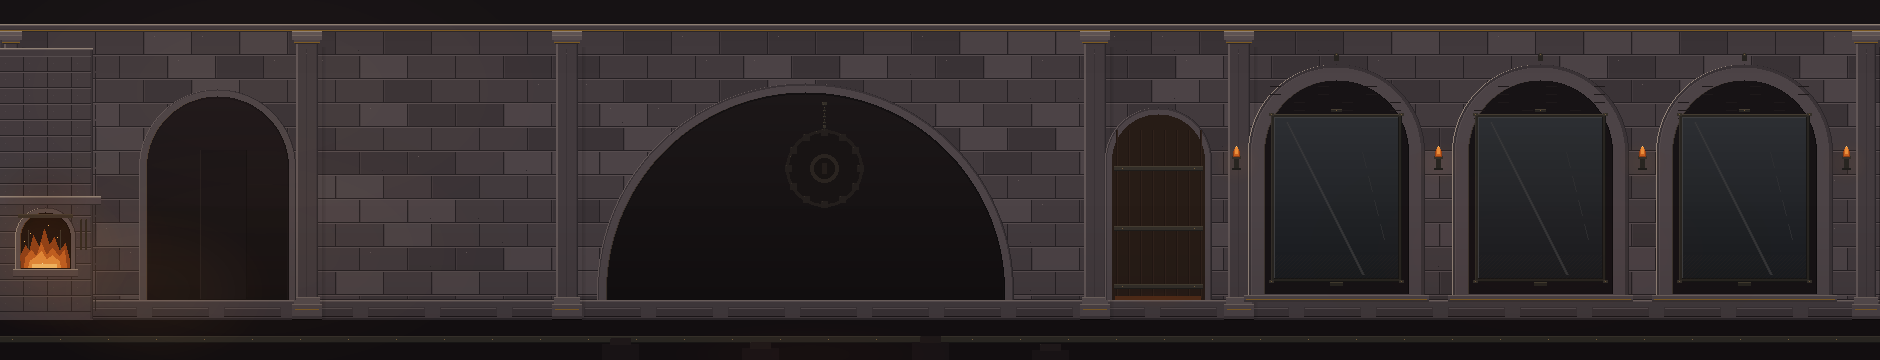
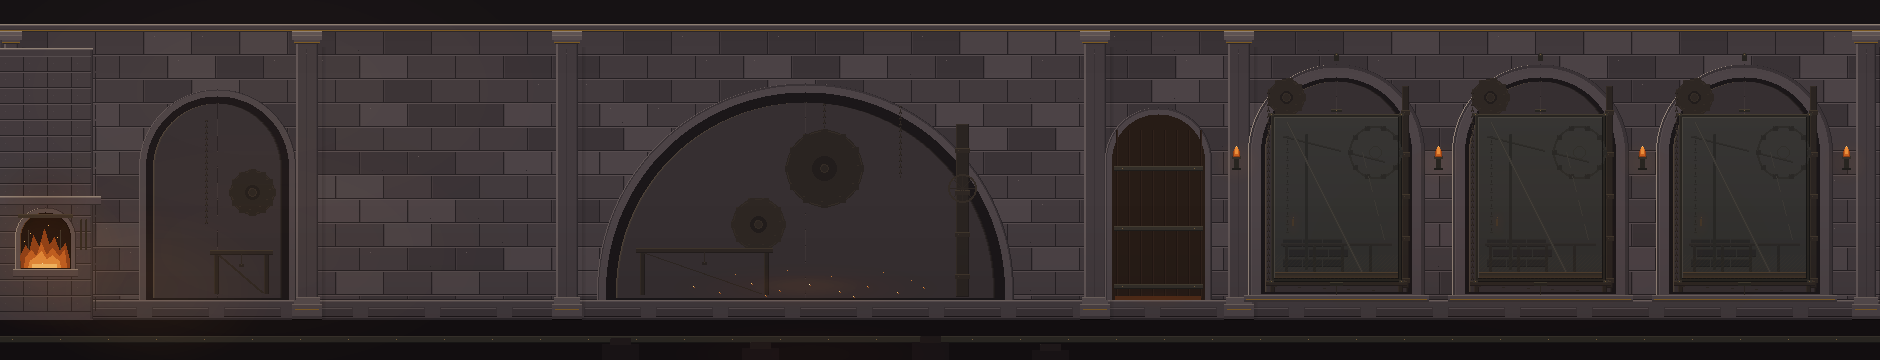
镜厅拱洞补内层砖/齿轮剪影/余烬，近黑比例降到 1-5%

diff --git a/星核旅人/StarCoreTraveler/dlc/rift_workshop/tools/gen_interior_assets.py b/星核旅人/StarCoreTraveler/dlc/rift_workshop/tools/gen_interior_assets.py
@@ -38,6 +38,8 @@ import random
 
 from PIL import Image, ImageDraw
 
+TAU = math.tau
+
 HERE = os.path.dirname(os.path.abspath(__file__))
 DLC = os.path.dirname(HERE)
 OUT = os.path.join(DLC, "assets", "interior")
@@ -102,11 +104,11 @@ FIRE_MID = (234, 142, 58, 255)
 FIRE_LIGHT = (255, 196, 108, 255)
 FIRE_HOT = (255, 235, 180, 255)
 
-GLASS_TOP = (45, 47, 51, 255)
-GLASS_MID = (35, 37, 41, 255)
-GLASS_LOW = (25, 27, 31, 255)
-GLASS_HI = (62, 62, 64, 255)
-GLASS_WARM = (72, 58, 46, 255)
+GLASS_TOP = (55, 53, 51, 255)
+GLASS_MID = (51, 50, 49, 255)
+GLASS_LOW = (48, 47, 46, 255)
+GLASS_HI = (72, 68, 62, 255)
+GLASS_WARM = (84, 66, 50, 255)
 
 # Recessed second-layer masonry.  One step darker than the outer wall, but the
 # 32x16 coursing stays readable; the dark gap around it is depth, not a hole.
@@ -510,61 +512,75 @@ def mirror_reflections(img: Image.Image, px0: int, py0: int, px1: int, py1: int)
     right, bottom = px1 - 4, py1 - 4
     if right - left < 10 or bottom - top < 10:
         return
-    # Reflected lower brick wall: 24x12, 1 px seams, low contrast.
-    for y in range(top + 54, bottom):
-        rel = y - (top + 54)
-        row = rel // 12
-        offset = 0 if row % 2 == 0 else 12
-        for x in range(left, right + 1):
-            if rel % 12 == 0:
-                px(draw, x, y, (46, 48, 51, 255))
-            elif rel % 12 == 11:
-                px(draw, x, y, (34, 36, 39, 255))
-            elif (x - left + offset) % 24 == 0:
-                px(draw, x, y, (34, 36, 39, 255))
-            else:
-                tone = (39, 41, 44, 255) if (row + (x // 24)) % 2 == 0 else (42, 44, 47, 255)
-                px(draw, x, y, tone)
+    # Broken patch of reflected masonry in the lower-left corner; deliberately
+    # partial, so it reads as a reflection rather than window muntins.
+    for row in range(3):
+        y = bottom - 38 + row * 10
+        for col in range(3):
+            x0 = left + 8 + col * 20 + (row % 2) * 6
+            x1 = min(right - 6, x0 + 18)
+            if x1 <= x0:
+                continue
+            rect(draw, x0, y, x1, y + 7, (40, 39, 39, 255))
+            rect(draw, x0, y, x1, y, (46, 44, 42, 255))
+            rect(draw, x0, y + 7, x1, y + 7, (34, 33, 33, 255))
+            px(draw, x0 + 4, y + 3, (43, 41, 40, 255))
+    # Reflected diagonal roof brace, broken at a joint: reads as a mirror
+    # reflection, not as a window transom.
+    for index in range(min(right - left - 20, 126)):
+        x = left + 8 + index
+        y = top + 18 + index // 4
+        if y >= bottom - 12:
+            break
+        if 58 <= index <= 64:
+            continue
+        rect(draw, x, y, x, y + 1, (43, 41, 39, 255))
+        px(draw, x, y, (48, 46, 43, 255))
     # Reflected broken gear at the upper right.
-    gcx, gcy, gr = right - 18, top + 30, 20
+    gcx, gcy, gr = right - 22, top + 34, 26
     draw.ellipse((gcx - gr, gcy - gr, gcx + gr, gcy + gr),
-                 outline=(43, 45, 48, 255), width=2)
-    for index in range(8):
-        angle = TAU * float(index) / 8.0
+                 outline=(46, 44, 41, 255), width=2)
+    for index in range(10):
+        angle = TAU * float(index) / 10.0
         tx = gcx + int(round(math.cos(angle) * (gr - 1)))
         ty = gcy + int(round(math.sin(angle) * (gr - 1)))
-        rect(draw, tx - 2, ty - 2, tx + 2, ty + 2, (41, 43, 46, 255))
-        px(draw, tx - 1, ty - 2, (48, 50, 52, 255))
-    draw.ellipse((gcx - 5, gcy - 5, gcx + 5, gcy + 5),
-                 outline=(46, 48, 51, 255), width=1)
+        rect(draw, tx - 2, ty - 2, tx + 2, ty + 2, (42, 40, 38, 255))
+        px(draw, tx - 1, ty - 2, (50, 48, 44, 255))
+    draw.ellipse((gcx - 6, gcy - 6, gcx + 6, gcy + 6),
+                 outline=(49, 47, 43, 255), width=1)
     # Reflected chain on the left margin of the glass.
     cx = left + 12
     for y in range(top + 18, min(bottom - 20, top + 116), 4):
         if (y // 4) % 2 == 0:
-            rect(draw, cx - 1, y, cx + 1, y, (43, 45, 48, 255))
+            rect(draw, cx - 1, y, cx + 1, y, (44, 42, 40, 255))
         else:
-            rect(draw, cx, y, cx, y + 2, (39, 41, 44, 255))
+            rect(draw, cx, y, cx, y + 2, (41, 39, 37, 255))
     # Reflected wood rack / pipe across the lower glass.
     rack_y = bottom - 34
-    rect(draw, left + 6, rack_y, right - 6, rack_y + 2, (42, 44, 47, 255))
-    rect(draw, left + 6, rack_y, right - 6, rack_y, (47, 49, 52, 255))
+    rect(draw, left + 6, rack_y, right - 6, rack_y + 2, (43, 41, 39, 255))
+    rect(draw, left + 6, rack_y, right - 6, rack_y, (48, 46, 43, 255))
     for bx in range(left + 10, right - 8, 28):
-        rect(draw, bx, rack_y + 2, bx + 2, bottom - 6, (39, 41, 44, 255))
-        px(draw, bx, rack_y + 2, (46, 48, 51, 255))
+        rect(draw, bx, rack_y + 2, bx + 2, bottom - 6, (41, 39, 37, 255))
+        px(draw, bx, rack_y + 2, (47, 45, 42, 255))
     # A faint vertical post reflection near the left third.
-    rect(draw, left + 30, top + 16, left + 32, bottom - 8, (36, 38, 41, 255))
-    px(draw, left + 30, top + 16, (44, 46, 49, 255))
+    rect(draw, left + 30, top + 16, left + 32, bottom - 8, (41, 40, 38, 255))
+    px(draw, left + 30, top + 16, (47, 45, 42, 255))
+    # A tiny reflected sconce flame in the lower-left, low alpha.
+    glow(img, left + 18, bottom - 54, 10, 17, FIRE_DARK, 12)
+    rect(draw, left + 17, bottom - 58, left + 18, bottom - 52, (69, 55, 41, 255))
+    px(draw, left + 18, bottom - 60, (84, 66, 46, 255))
 
 
 def ember_cluster(img: Image.Image, cx: int, cy: int, rx: int, ry: int) -> None:
     """Low-alpha furnace embers with a handful of 1 px hot points."""
-    glow(img, cx, cy, rx, ry, FIRE_DARK, 14)
-    glow(img, cx, cy - 3, max(8, rx // 2), max(6, ry // 2), FIRE_MID, 9)
+    glow(img, cx, cy, rx, ry, FIRE_DARK, 19)
+    glow(img, cx, cy - 3, max(8, rx // 2), max(6, ry // 2), FIRE_MID, 11)
     draw = ImageDraw.Draw(img)
     embers = (
         (-112, -2, FIRE_LIGHT), (-86, 4, FIRE_MID), (-54, -5, FIRE_LIGHT),
         (-26, 2, FIRE_MID), (4, -4, FIRE_HOT), (34, 3, FIRE_LIGHT),
         (62, -2, FIRE_MID), (92, 4, FIRE_LIGHT), (118, -1, FIRE_MID),
+        (-40, 7, FIRE_MID), (48, 8, FIRE_LIGHT),
     )
     for dx, dy, color in embers:
         px(draw, cx + dx, cy + dy, color)
@@ -927,7 +943,7 @@ def mirror_bay(img: Image.Image, x0: int, y0: int, x1: int, y1: int) -> None:
     arch_edges(draw, x0 + 3, y0 + 3, x1 - 3, y1, STONE_3, STONE_0)
     inner_brick_arch(img, x0 + 13, y0 + 13, x1 - 13, y1 - 6, inset=4)
     # Physical silhouettes sit behind the plate; only the margins stay visible.
-    dark_gear(img, x0 + 38, y0 + 32, 20, body=SIL_1, edge=SIL_2, hole=SIL_DARK, teeth=9)
+    dark_gear(img, x0 + 38, y0 + 33, 18, body=SIL_1, edge=SIL_2, hole=SIL_DARK, teeth=9)
     dark_pipe(img, x1 - 22, y0 + 22, x1 - 16, y1 - 12)
     dark_chain(img, x0 + 20, y0 + 28, y1 - 16)
     dark_rack(img, x0 + 18, y1 - 18, x1 - 18, y1 - 8)
@@ -955,8 +971,8 @@ def mirror_bay(img: Image.Image, x0: int, y0: int, x1: int, y1: int) -> None:
     # large diagonal in the plate, so the surface reads as glass.
     for y in range(py0 + 8, py1 - 6):
         sx = px0 + 12 + (y - py0) // 2
-        for dx, color in ((-1, (47, 48, 51, 255)), (0, (56, 56, 58, 255)),
-                          (1, (47, 48, 51, 255))):
+        for dx, color in ((-1, (54, 52, 49, 255)), (0, (66, 62, 57, 255)),
+                          (1, (54, 52, 49, 255))):
             if px0 + 5 < sx + dx < px1 - 5:
                 px(draw, sx + dx, y, color)
     # A short second reflection near the right edge, broken into segments.
@@ -965,7 +981,7 @@ def mirror_bay(img: Image.Image, x0: int, y0: int, x1: int, y1: int) -> None:
             continue
         sx = px0 + 82 + (y - py0) // 4
         if px0 + 5 < sx < px1 - 5:
-            px(draw, sx, y, (45, 46, 49, 255))
+            px(draw, sx, y, (60, 57, 53, 255))
     # Warm firelight reflection along the bottom edge.
     for y in range(py1 - 26, py1 - 2):
         for x in range(px0 + 4, px1 - 3):
@@ -976,6 +992,12 @@ def mirror_bay(img: Image.Image, x0: int, y0: int, x1: int, y1: int) -> None:
                     (old[1] * 7 + GLASS_WARM[1]) // 8,
                     (old[2] * 7 + GLASS_WARM[2]) // 8, 255,
                 ))
+    # A low, continuous floor-light band at the very bottom of the glass.
+    for y in range(py1 - 9, py1 - 3):
+        t = (y - (py1 - 9)) / 6.0
+        rect(draw, px0 + 4, y, px1 - 4, y,
+             lerp((42, 40, 38, 255), (68, 53, 40, 255), t))
+    rect(draw, px0 + 4, py1 - 9, px1 - 4, py1 - 9, (80, 63, 47, 255))
     # Corner clips, a small bottom bracket and a top crest.
     for cx, cy in ((px0, py0), (px1, py0), (px0, py1), (px1, py1)):
         rect(draw, cx - 2, cy - 1, cx + 2, cy + 1, IRON_2)

diff --git a/星核旅人/StarCoreTraveler/dlc/rift_workshop/tools/verify_interior_arches.py b/星核旅人/StarCoreTraveler/dlc/rift_workshop/tools/verify_interior_arches.py
@@ -1,0 +1,105 @@
+"""Verify that the DLC2 arch interiors are no longer black holes.
+
+Usage:
+    D:/minic/envs/2024212971/python.exe dlc/rift_workshop/tools/verify_interior_arches.py
+
+Near-black is defined exactly as the acceptance prompt: max(R,G,B) < 24.
+It reports the generated back layer and the three gameplay camera frames (plus
+the opening mirror-hall frame when present).
+"""
+
+from __future__ import annotations
+
+import math
+import os
+
+from PIL import Image
+
+HERE = os.path.dirname(os.path.abspath(__file__))
+DLC = os.path.dirname(HERE)
+PROJECT = os.path.dirname(os.path.dirname(DLC))
+BACK = os.path.join(DLC, "assets", "interior", "interior_back_1880x360.png")
+SHOTS = os.path.join(PROJECT, "screenshots", "rift_interior_20261127")
+INTRO = os.path.join(SHOTS, "after", "intro_mirror_hall.png")
+INTRO_EARLY = os.path.join(
+    PROJECT, "screenshots", "rift_opening_20261127", "01_mirror_hall_wide.png"
+)
+
+
+def arch_spans(x0: int, y0: int, x1: int, y1: int):
+    cx = (x0 + x1) / 2.0
+    half = (x1 - x0) / 2.0
+    spring = y0 + half
+    for y in range(y0, y1 + 1):
+        if y < spring:
+            dy = spring - y
+            h = math.sqrt(max(half * half - dy * dy, 0.0))
+        else:
+            h = half
+        yield y, int(round(cx - h)), int(round(cx + h))
+
+
+def ratio(image: Image.Image, x0: int, y0: int, x1: int, y1: int) -> tuple[int, int, float]:
+    px = image.load()
+    total = 0
+    near_black = 0
+    for y, left, right in arch_spans(x0, y0, x1, y1):
+        for x in range(left, right + 1):
+            r, g, b = px[x, y][:3]
+            total += 1
+            if max(r, g, b) < 24:
+                near_black += 1
+    pct = 0.0 if total == 0 else 100.0 * near_black / total
+    return near_black, total, pct
+
+
+def main() -> None:
+    back = Image.open(BACK).convert("RGB")
+    cases: list[tuple[str, Image.Image, int, int, int, int]] = [
+        ("asset entry", back, 150, 100, 284, 297),
+        ("asset giant", back, 612, 98, 998, 297),
+        ("asset mirror1", back, 1264, 80, 1408, 293),
+        ("asset mirror2", back, 1468, 80, 1612, 293),
+        ("asset mirror3", back, 1672, 80, 1816, 293),
+    ]
+    # Gameplay frames: the back layer offsets are 0.90 * (camera view left).
+    # start: view left 0; mid: 460; boss: 1110 (player x=780 / 1430).
+    frame_regions = {
+        "start.png": [("game start entry", 150, 100, 284, 297)],
+        "mid.png": [("game mid giant", 198, 98, 584, 297)],
+        "boss.png": [
+            ("game boss mirror1", 265, 80, 409, 293),
+            ("game boss mirror2", 469, 80, 613, 293),
+        ],
+    }
+    for name, regions in frame_regions.items():
+        path = os.path.join(SHOTS, "after", name)
+        if not os.path.exists(path):
+            continue
+        image = Image.open(path).convert("RGB")
+        for label, x0, y0, x1, y1 in regions:
+            cases.append((label, image, x0, y0, x1, y1))
+    if os.path.exists(INTRO):
+        intro = Image.open(INTRO).convert("RGB")
+        # Opening camera centre 1540 -> view left 1220 -> back offset 1098.
+        cases.append(("intro 2.35 mirror1", intro, 166, 80, 310, 293))
+        cases.append(("intro 2.35 mirror2", intro, 370, 80, 514, 293))
+    if os.path.exists(INTRO_EARLY):
+        intro_early = Image.open(INTRO_EARLY).convert("RGB")
+        # The first beat is under the film's 0.50 dark grade; include it so the
+        # asset cannot pass only at the end of the hold.
+        cases.append(("intro 0.72 mirror1", intro_early, 166, 80, 310, 293))
+        cases.append(("intro 0.72 mirror2", intro_early, 370, 80, 514, 293))
+
+    worst = 0.0
+    for label, image, x0, y0, x1, y1 in cases:
+        near_black, total, pct = ratio(image, x0, y0, x1, y1)
+        worst = max(worst, pct)
+        print(f"{label:20s} near_black={near_black:6d}/{total:6d}  {pct:6.2f}%")
+    print(f"WORST {worst:.2f}%  (limit 40%)")
+    if worst > 40.0:
+        raise SystemExit(1)
+
+
+if __name__ == "__main__":
+    main()

diff --git a/星核旅人/StarCoreTraveler/dlc/rift_workshop/REF_INTERIOR_20261127.md b/星核旅人/StarCoreTraveler/dlc/rift_workshop/REF_INTERIOR_20261127.md
@@ -56,6 +56,13 @@
 - 场景：`Background/CloudRuinsDS03` 已替换为 `Background/Back`、`Mid`、`Fore`；`Background` CanvasLayer 与 `RiftFog` 节点名保留；`RiftFog` 改为暖尘；新增世界坐标 `RiftFloor`（y=320，z=2）。地形/碰撞节点坐标未改，`Column*` 节点名与坐标未改，仅把装饰引用换成本章工坊支柱。
 - 旧云海：`scenes/backgrounds/cloud_ruins_ds03.tscn`、`assets/backgrounds/cloud_ruins_ds03/`、旧 `assets/rift_fog_640x360.png` 全部保留。
 - 截图（640×360，实际运行视口）：`screenshots/rift_interior_20261127/before/{start,mid,boss}.png` 与 `.../after/{start,mid,boss}.png`，逐张实际查看。改造前 `before/start.png` 的测试玩家在 x=96，改造后使用真实出生点 x=40；摄像机都在 0–640，背景对照不受影响（说明见该目录 README）。
+- 开场镜厅帧：`screenshots/rift_interior_20261127/after/intro_mirror_hall.png` 取自实际开场 2.35 s 的 `03b_phase_wave.png`（完整开场证据仍在 `screenshots/rift_opening_20261127/`）；另核看 0.72 s 的 `01_mirror_hall_wide.png`。
+- 拱洞内层（2026-11-27 追加）：入口拱、中段巨拱、镜厅三拱均改为“外层拱框 + 退进 7–10 px 的 32×16 暗砖内墙 + 1 px 内缘弱光 + 底部暖反射”；巨拱加双齿轮、管道/阀轮、木架与余烬光；镜厅三拱在镜面后加齿轮/管道/吊链/木架剪影，并在镜面玻璃里画低对比反射（齿轮、斜撑、木架、砖块、暖底光）。不再用纯黑填充。
+- 近黑实测（max(R,G,B)<24，阈值 40%）：
+  - 背景层拱洞：entry 0.00%、giant 0.00%、mirror1/2/3 1.84% / 0.45% / 1.84%。
+  - 游戏帧：start 5.51%、mid 2.27%、boss 1.19% / 0.71%。
+  - 开场：0.72 s（0.50 暗场）26.90% / 19.70%；2.35 s 4.34% / 2.14%。最差 26.90%，低于 40%。
+  - 复现：`D:/minic/envs/2024212971/python.exe dlc/rift_workshop/tools/verify_interior_arches.py`。
 - 导入：`dlc/rift_workshop/tests/import_interior_20261127.log`，0 ERROR。
 - 回归：`dlc/rift_workshop/tests/run_all_interior_20261127.log`，10 项 exit=0、problems=0；本体三关各 90 帧 0 错误。
 - 说明：跑测试前，工作树中的 DLC2 旧测试套件被删除；已从 HEAD 恢复。`route_test`/`parity_test` 与 `run_all.ps1` 只增加了退出前释放标题 BGM 的测试清理（raw `--quit-after` 会留下 `title_theme.ogg` 的引擎 teardown ERROR），未改任何断言、玩法或 HUD。

diff --git a/星核旅人/StarCoreTraveler/dlc/rift_workshop/assets/interior/README.md b/星核旅人/StarCoreTraveler/dlc/rift_workshop/assets/interior/README.md
@@ -19,5 +19,6 @@
 - 金只保留檐口/踢脚 1 px 暗金线；不在桥段 y200–320 放金色、青色或亮窗。镜厅玻璃为中性炭灰，让双面镜的金/青面盘保持最高饱和。
 - 炉火：外焰 `(142,62,22)`、内焰 `(234,142,58)`、芯 `(255,196,108)`；仅做局部暖光，不改结构受光方向。
 - 桥下深井：`interior_floor` 在 560–1079 透明，背景底层画暗铁梁/远机件；地面碰撞条与所有地形节点坐标未改。
+- 拱洞内层（2026-11-27 追加）：入口拱/中段巨拱/镜厅三拱不再用纯黑填充；内层为 32×16 暗砖墙（比外墙暗一档）、1 px 内缘弱光、底部暖反射；巨拱加齿轮/管道/木架/余烬；镜厅在镜面后加机件剪影，并在玻璃里画低对比反射。实测近黑（max(R,G,B)<24）最高 26.90%，低于 40%，复现脚本 `../tools/verify_interior_arches.py`。
 - 旧云海：`scenes/backgrounds/cloud_ruins_ds03.tscn`、`assets/backgrounds/cloud_ruins_ds03/` 与旧 `assets/rift_fog_640x360.png` 均保留，未被覆盖。
 - 许可：项目自制程序化像素；如单独作为素材包分发，由项目组另行决定许可/署名。
